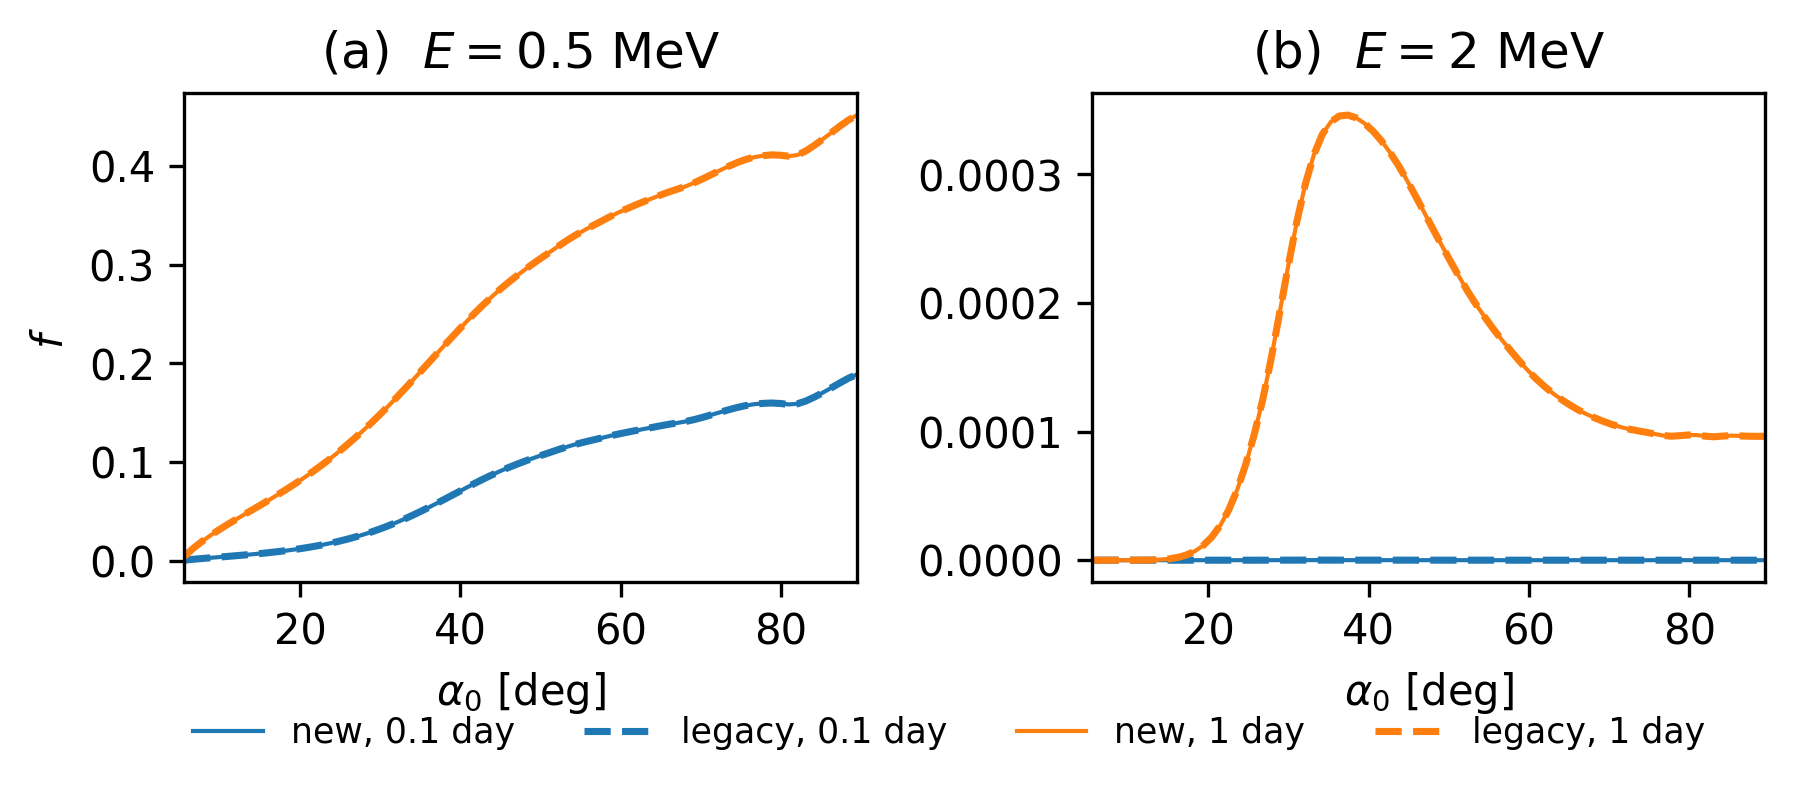
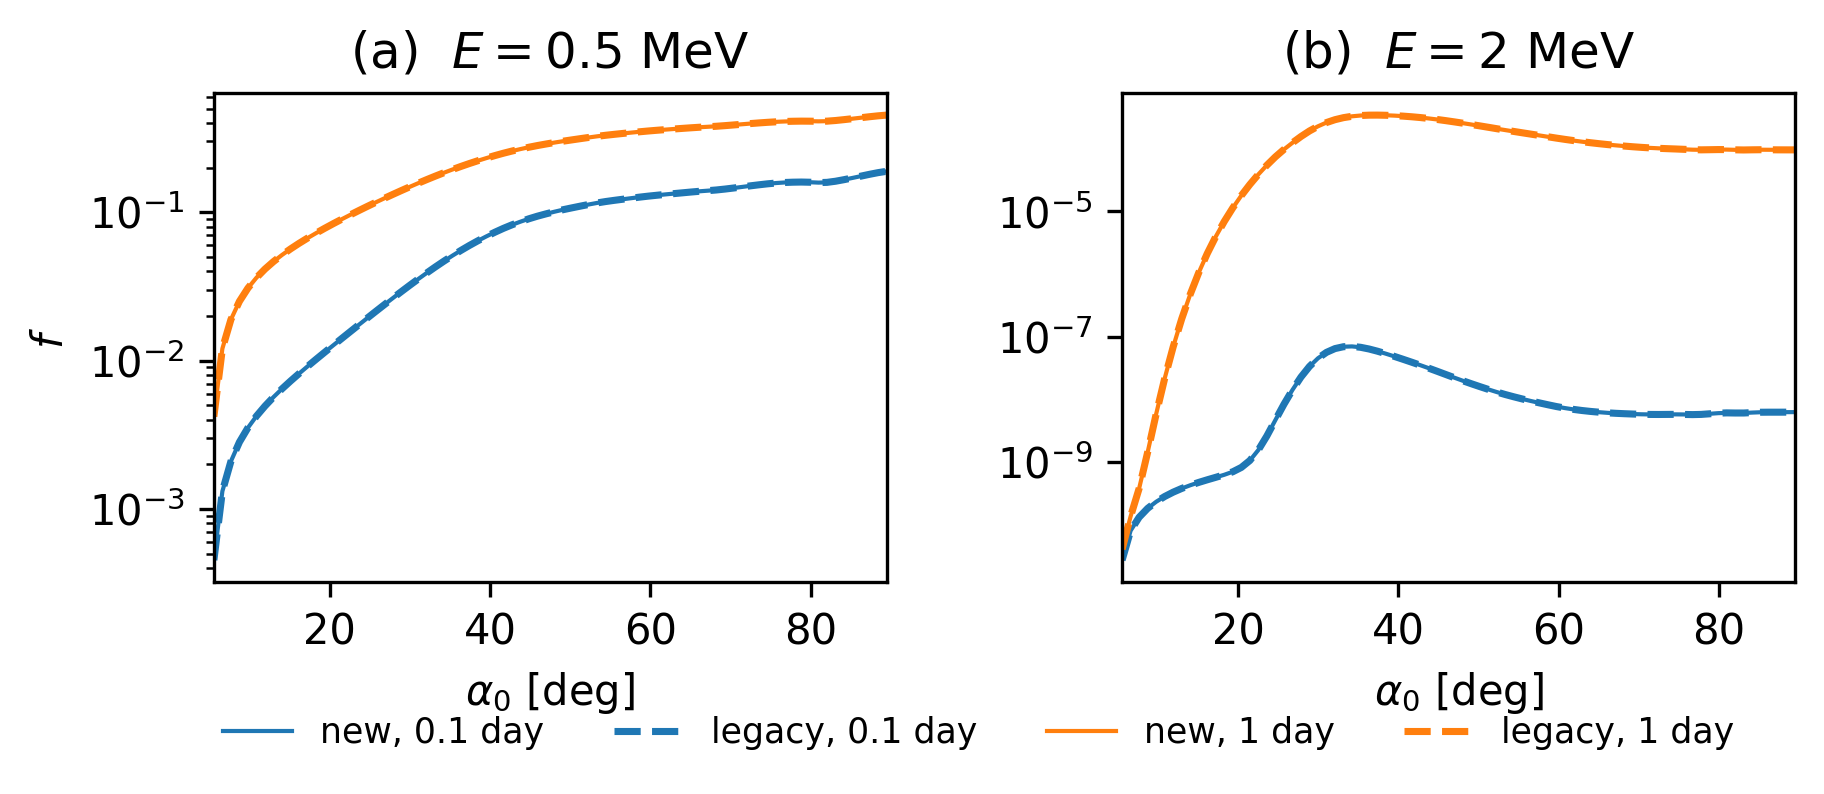
use log scale for Albert Young profiles

diff --git a/scripts/plot_albert_young.py b/scripts/plot_albert_young.py
@@ -97,6 +97,7 @@ def main() -> int:
         ax.set_title(f"{panel}  $E = {energy:g}$ MeV")
         ax.set_xlabel(r"$\alpha_0$ [deg]")
         ax.set_ylabel(r"$f$" if ax is axes[0] else "")
+        ax.set_yscale("log")
         ax.set_xlim(alpha_new[0], alpha_new[-1])
     fig.legend(handles, labels, loc="lower center", ncol=4, frameon=False,
                bbox_to_anchor=(0.5, -0.02), fontsize="small")

diff --git a/README.md b/README.md
@@ -158,9 +158,6 @@ cmake --build build-cmake --target sayram2d_example
 ./build-cmake/sayram2d_example
 ```
 
-The former `Grid2D` is merged into `Mesh`; both the example and the library
-construct `Mesh` directly from the q1/q2 edge arrays.
-
 ## Ownership and lifetime
 
 - `Mesh` owns its geometry and is immutable after construction. It may be
@@ -288,7 +285,8 @@ The plot compares the app result with the committed legacy 1-day reference
 at 0.5 and 2 MeV for 0.1 and 1 day. Outputs are
 [`figures/albert_young_profiles.png`](figures/albert_young_profiles.png) and
 [`figures/albert_young_difference.png`](figures/albert_young_difference.png),
-with PDF versions alongside them.
+with PDF versions alongside them. The profile plot uses a logarithmic
+vertical axis for `f`.
 
 There are two `main.cc` files by design:
 
@@ -380,10 +378,10 @@ tools/              data-conversion tools
 docs/               numerical algorithm and design notes
 ```
 
-The legacy command-line driver, HDF5 input/output, xtensor dependency, and old
-`Grid2D`/`Edge`/`NbrInd` representations are not part of the new library. The
-frozen legacy source is retained under `tests/legacy/legacy_source/` only so
-the baseline harness remains reproducible.
+The legacy command-line driver and xtensor dependency are not part of the new
+library. The frozen legacy source is retained under
+`tests/legacy/legacy_source/` only so the baseline harness remains
+reproducible.
 
 ## License and citation
 
